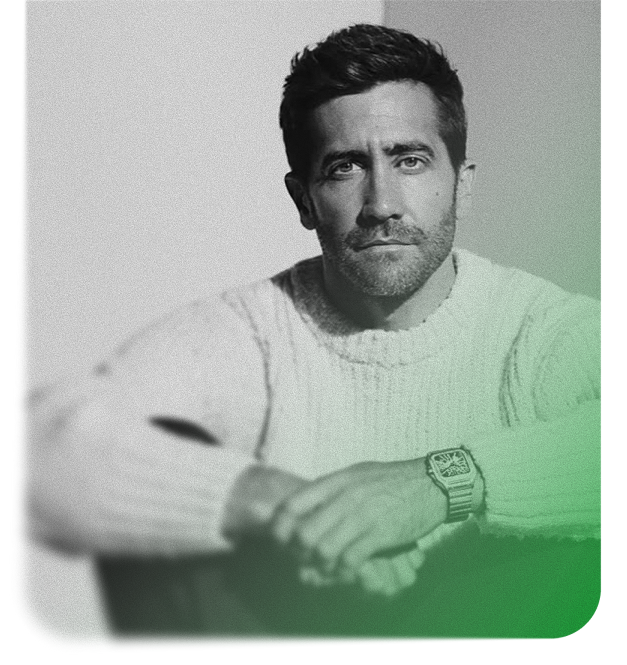
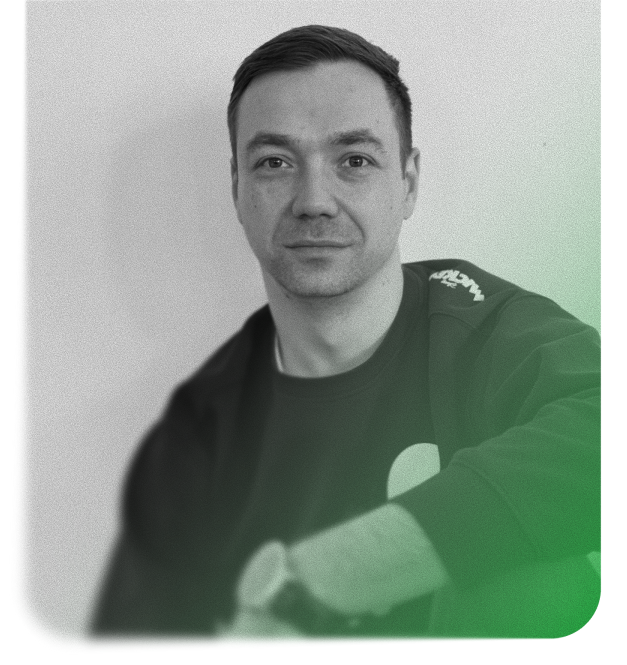
fix: Изменил анимацию header заголовка. Заменил текст на главной. Добавил слеши к заголовкам и уменьшил копирайт в футере.

diff --git a/index.html b/index.html
@@ -49,9 +49,9 @@
           <div class="header__title-subtitle">
             <h2 class="header__title-first">
               <ul>
-                <li class="animated fadeInDown delay-1">TEST</li>
-                <li class="animated fadeInDown fast delay-2">HOSTING</li>
-                <li class="animated fadeInDown slow delay-3">DEPLOY</li>
+                <li class="animated fadeInDown delay-1">Lead</li>
+                <li class="animated fadeInDown fast delay-2">Product</li>
+                <li class="animated fadeInDown slow delay-3">Designer</li>
               </ul>
             </h2>
           </div>
@@ -63,36 +63,38 @@
     <section class="about" id="about">
       <div class="container">
         <div class="about__content">
-          <h3 class="about__title">ABOUT</h3>
+          <h3 class="about__title">ABOUT /</h3>
           <div class="about__text">
-            <p>As a <span>TEST TESTed TESTing</span> with 13+ years of experience, I specialise in crafting scalable
-              design
-              systems,
-              driving UX/UI
-              innovation, and leading high-performing teams. I thrive at the intersection of strategy and execution,
-              ensuring that
-              design decisions not only enhance user experience but also align with business goals.</p>
+            <p>As a Lead <span>Product Designer</span> with fifteen years of experience, I build design systems for
+              products where money is involved
+              — banking, trading, payments. What I enjoy most sits between strategy and the screen: working out what a
+              business
+              actually needs, then what the product has to do about it, and being able to explain both to the people
+              paying for it.</p>
 
-            <p>Throughout my career,
-              I’ve built
-              and refined design systems that improve workflow efficiency, foster consistency, and elevate product
-              quality.</p>
+            <p>Most of my work lives at two ends of the same product. There is the first time someone opens something
+              they do not
+              understand yet, where the interface has to teach before it can help. And there is the thousandth time,
+              when the same
+              person is checking one number on the way to work. Designing for both is harder than it sounds, because
+              they want
+              opposite things — and a good system is usually what keeps the peace between them.</p>
 
-            <p>Beyond
-              design execution, I focus on mentorship and team leadership, fostering a culture of collaboration where
-              designers think
-              beyond aesthetics to solve complex product challenges. I believe in the power of data-driven design,
-              balancing
-              qualitative research with real-world constraints to create solutions that are effective.</p>
+            <p>I spent four years at Backbase building the design language behind a white-label banking platform, and it
+              taught me most
+              of what I know about systems. What stayed with me is the governance side: deciding what earns a place in
+              the system,
+              teaching it to teams I had no authority over.</p>
 
-            <p>With expertise in
-              interaction
-              design, motion design, accessibility, and AI-driven tools, I bring a forward-thinking approach to modern
-              product design.
-              I excel in working cross-functionally with product managers, engineers, and stakeholders to translate
-              vision
-              into
-              tangible, high-impact experiences.</p>
+            <p>I have managed a small design team, and more often led work across teams that did not report to me, which
+              takes
+              persuasion rather than process. My background is industrial design and a long stretch as an art director,
+              so I still
+              care a great deal about typography, hierarchy and restraint. These days that sits alongside motion,
+              accessibility and a
+              fair amount of AI-assisted work, which has changed how I prototype more than anything else in the last few
+              years.</p>
+
           </div>
         </div>
       </div>
@@ -102,7 +104,7 @@
       <div class="container">
         <div class="cv__content">
           <h3 class="cv__title">CV</h3>
-          <h4 class="cv__title-second">CASES</h4>
+          <h4 class="cv__title-second">CASES /</h4>
         </div>
       </div>
       <!-- Карусель -->
@@ -163,10 +165,10 @@
       <!-- Социальные сети -->
       <div class="container">
         <div class="cv__social-wrapper" id="socials">
-          <h4 class="cv__title-min">SOCIALS</h4>
+          <h4 class="cv__title-min">SOCIALS /</h4>
           <ul class="cv__social">
             <li>
-              <a href="https://www.linkedin.com" class="cv__social-link" target="_blank" rel="noopener noreferrer"
+              <a href="https://www.linkedin.com/in/kochurov/" class="cv__social-link" target="_blank" rel="noopener noreferrer"
                 aria-label="LinkedIn">
                 LINKEDIN</a>
             </li>
@@ -190,7 +192,7 @@
     <footer class="footer">
       <div class="container">
         <div class="footer__content">
-          <p><span>2025</span>&copy; Kochurov Evgenii</p>
+          <p><span>2025</span> &copy; Kochurov Evgenii</p>
           <div class="footer__rectangle"></div>
         </div>
       </div>

diff --git a/src/js/main.js b/src/js/main.js
@@ -45,11 +45,34 @@ document.addEventListener('DOMContentLoaded', async () => {
 			'.about__text p, .starting__text p, .starting, .role__text p, .team__text p, .team__text li, .scope__text p, .scope__text li, .ownership__text p, .ownership__text li, .problem__text p, .problem__text li, .challenges__text p, .research__text p, .insights__text p, .results__text p, .evaluated__text p'
 		)
 		.forEach((p) => {
-			// Разбиваем текст на слова с сохранением знаков препинания и пробелов
-			p.innerHTML = p.textContent.replace(
-				/(\S+[\.,!?;:]*)/g,
-				'<span class="word">$1</span>'
-			);
+			const textNodes = [];
+
+			const walker = document.createTreeWalker(p, NodeFilter.SHOW_TEXT);
+
+			let node;
+
+			while ((node = walker.nextNode())) {
+				if (node.textContent.trim()) {
+					textNodes.push(node);
+				}
+			}
+
+			textNodes.forEach((textNode) => {
+				const fragment = document.createDocumentFragment();
+
+				textNode.textContent.split(/(\s+)/).forEach((text) => {
+					if (text.trim()) {
+						const span = document.createElement('span');
+						span.className = 'word';
+						span.textContent = text;
+						fragment.appendChild(span);
+					} else {
+						fragment.appendChild(document.createTextNode(text));
+					}
+				});
+
+				textNode.parentNode.replaceChild(fragment, textNode);
+			});
 
 			gsap.from(p.querySelectorAll('.word'), {
 				opacity: 0,

diff --git a/src/scss/header/header.scss b/src/scss/header/header.scss
@@ -82,7 +82,7 @@
         z-index: 999;
 
         &-subtitle {
-            position: fixed;
+            // position: fixed; // включить, если снова нужен эффект движения вниз!!! весь JS код работает я его не коммитил !!!
             z-index: 1000;
             top: 540px;
             left: 874px;
@@ -322,6 +322,7 @@
     .header {
         min-height: 88vh;
     }
+
     .header__title {
         top: 450px;
     }

diff --git a/src/scss/about/about.scss b/src/scss/about/about.scss
@@ -7,7 +7,7 @@
     &__content {
         margin-left: 80px;
         display: grid;
-        grid-template-columns: 71px 1fr;
+        grid-template-columns: 80px 1fr;
         gap: 128px;
         max-width: 775px;
         max-height: 810px;
@@ -43,7 +43,7 @@
 // для анимации GSAP
 .about__text .word {
     display: inline;
-    color: #000;
+    color: inherit;
     line-height: 30px;
     letter-spacing: 0px;
 }

diff --git a/src/scss/cv/cv.scss b/src/scss/cv/cv.scss
@@ -36,7 +36,7 @@
         margin: 0;
         padding: 0;
         display: grid;
-        grid-template-columns: 88px 1fr;
+        grid-template-columns: 95px 1fr;
         gap: 853px;
         max-width: 1367px;
         max-height: 352px;

diff --git a/src/scss/footer/footer.scss b/src/scss/footer/footer.scss
@@ -13,7 +13,7 @@
     p {
         margin: 0;
         padding: 0;
-        font-size: 25px;
+        font-size: 16px;
         font-weight: 400;
     }
 
